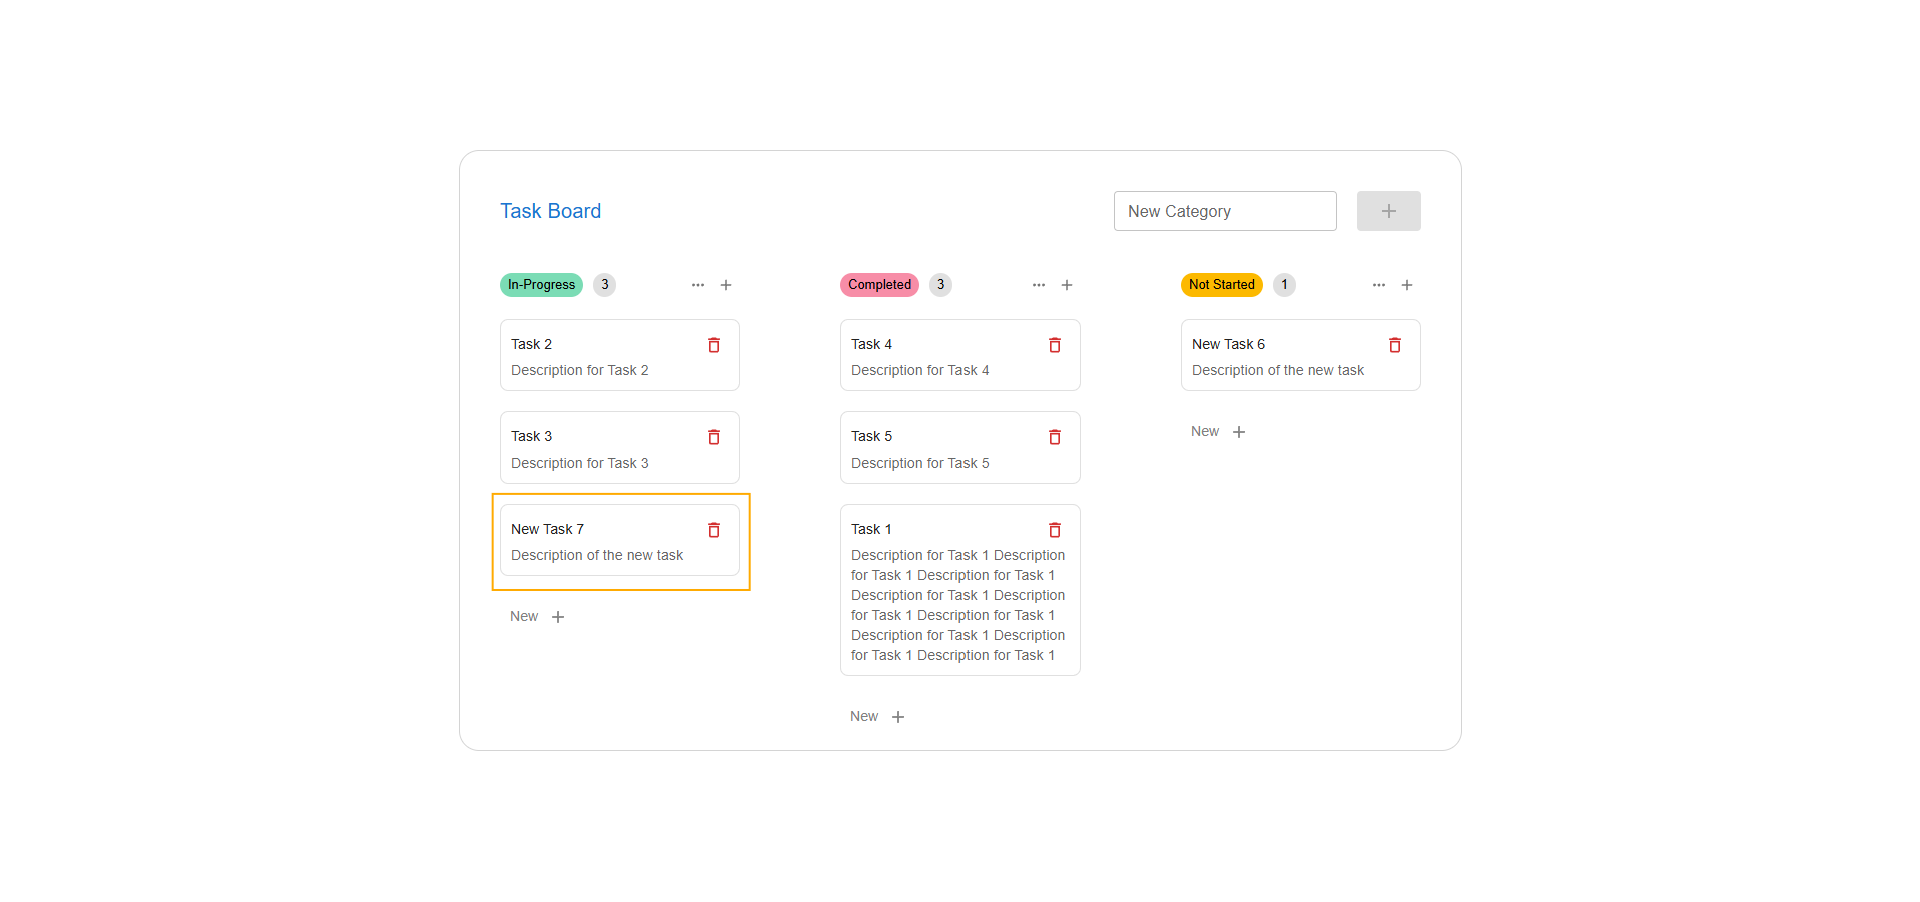
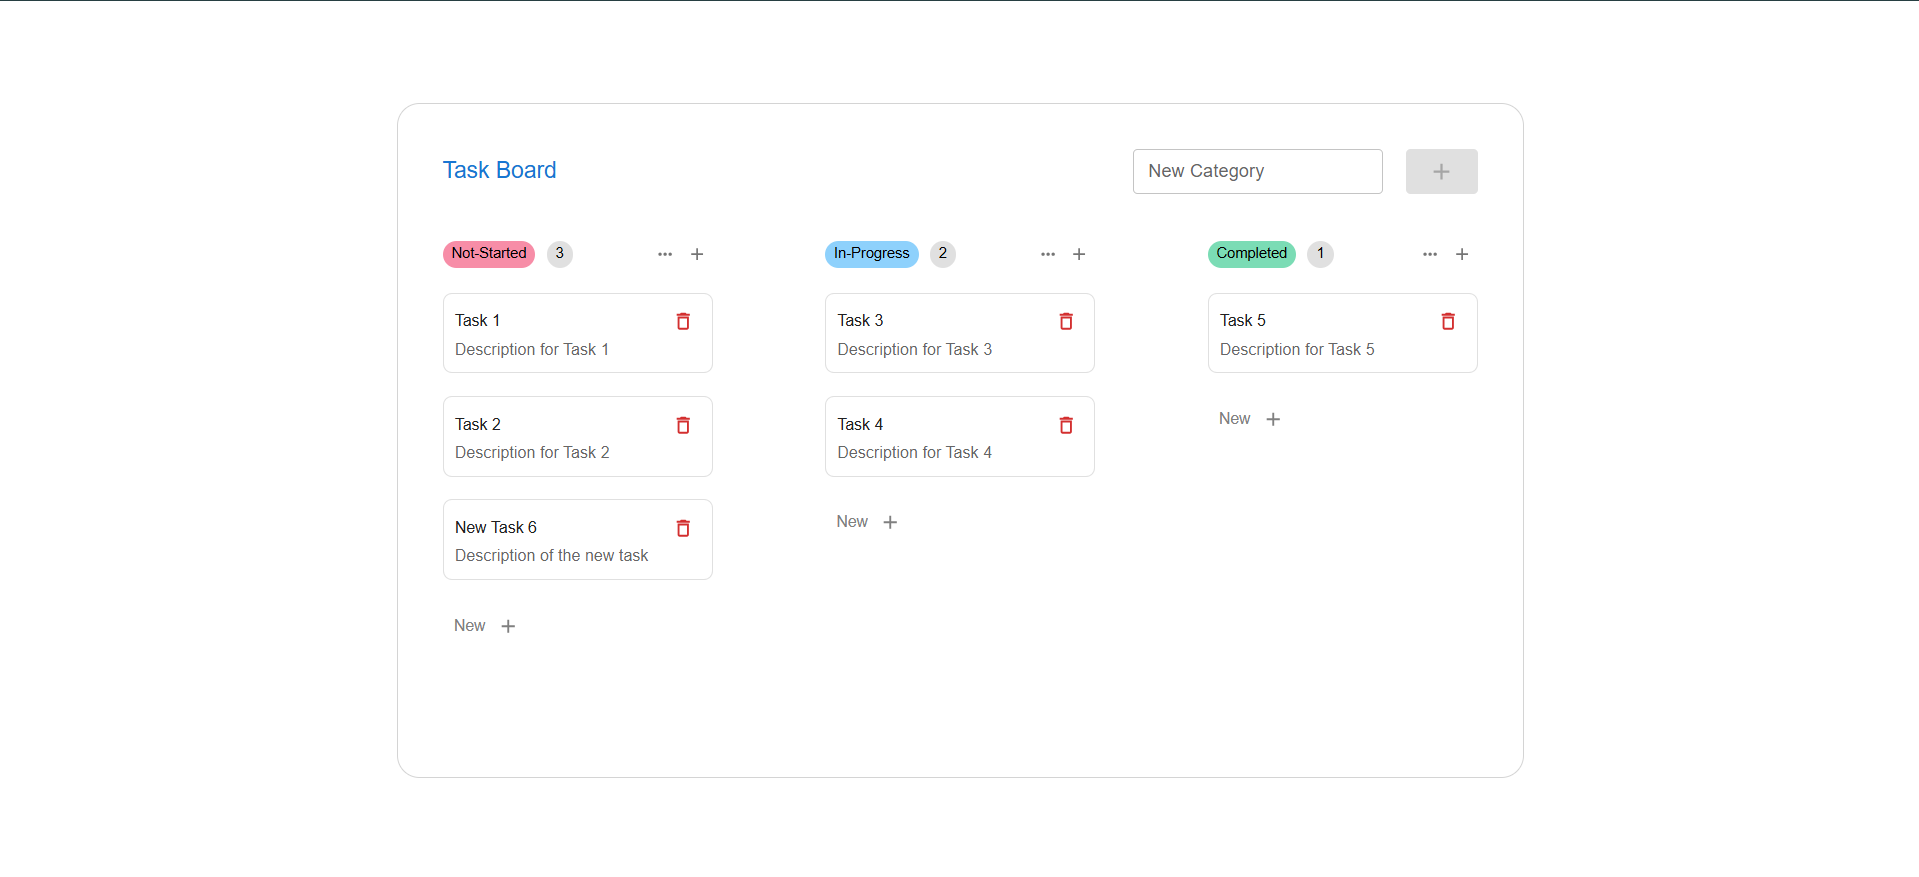
readme changed

diff --git a/src/index.css b/src/index.css
@@ -71,13 +71,11 @@ button:focus-visible {
 @tailwind components;
 @tailwind utilities;
 
-/* Hide scrollbar for Chrome, Safari and Opera */
 .no-scroll::-webkit-scrollbar {
   display: none;
 }
 
-/* Hide scrollbar for IE, Edge and Firefox */
 .no-scroll {
-  -ms-overflow-style: none; /* IE and Edge */
-  scrollbar-width: none; /* Firefox */
+  -ms-overflow-style: none;
+  scrollbar-width: none;
 }

diff --git a/README.md b/README.md
@@ -55,12 +55,12 @@
   <br><br>
   <div style="display: flex; justify-content: center;">
     <div style="text-align: center; margin: 10px;">
-      <img src="readme_assets\move2.png" alt="Before Dragging" width="800">
+      <img src="readme_assets\move1.png" alt="Before Dragging" width="800">
       <p><strong>Before:</strong> Task 1 is in the Not-Started List</p>
     </div>
     <br>
     <div style="text-align: center; margin: 10px;">
-      <img src="readme_assets\move3.png" alt="After Dragging" width="800">
+      <img src="readme_assets\move2.png" alt="After Dragging" width="800">
       <p><strong>After:</strong> Task 1 is dragged and dropped to the In-Progress List</p>
     </div>
   </div>
